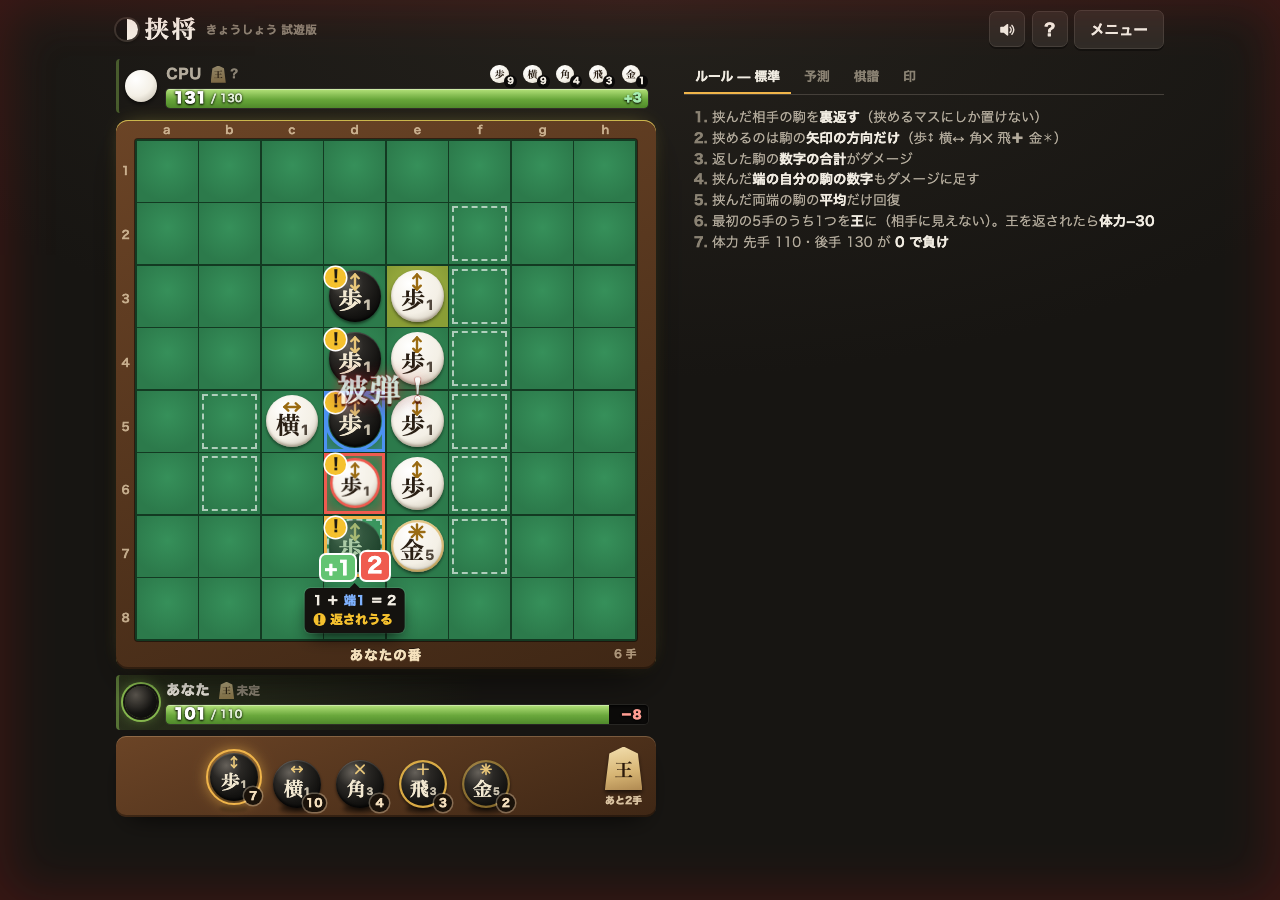
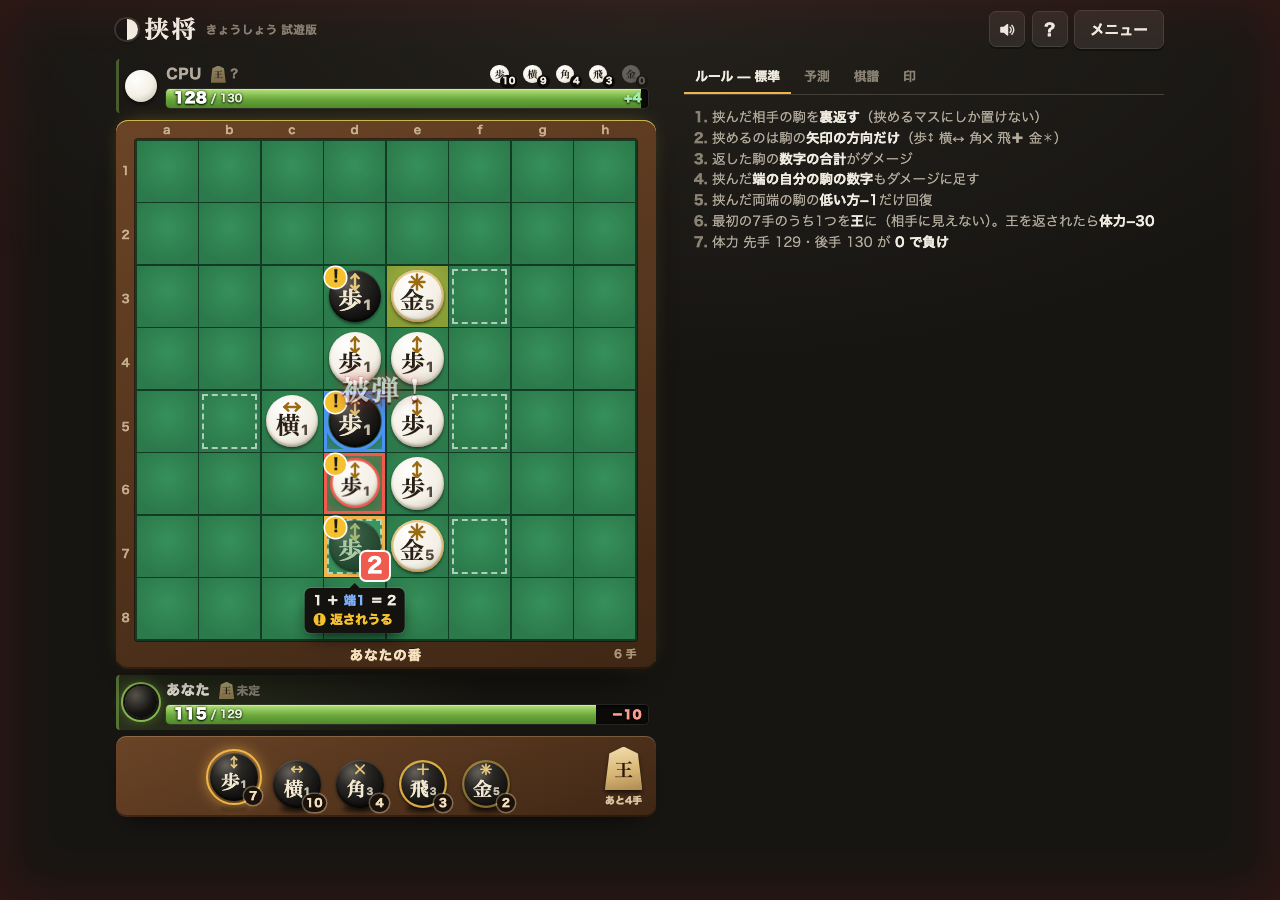
[改善] 標準を回復 低い方−1・王の指定期限 7 手・体力 129・130 にする
ユーザーの指定（王の期限 7 手・回復は弱めて残す）。先手の体力は 2 手読み同士で 125〜133 を走査し、8000 局で先手勝率 49.5 ± 1.1% の 129 にした。
旧標準を明記した URL・保存設定は旧の値のまま読む。

diff --git a/web/test/settings.test.ts b/web/test/settings.test.ts
@@ -80,16 +80,28 @@ describe("URL クエリ", () => {
 });
 
 describe("既定（標準）と共有済みの URL の互換", () => {
-  // ユーザーが既定に指定した URL のクエリ（先手の体力は 125 から 110 に下げた）
+  // 今の標準の URL のクエリ（ユーザーが既定に指定した URL から、回復を低い方−1・王の期限を 7 手に変え、先手の体力を測り直した）
   const STD_QUERY =
+    "take=flip&gate=0&dmg=sum&heal=low&hp1=129&hp2=130&fu=10&gin=0&kin=2&hi=3&limit=0&king=1&kpen=hp&kdmg=30&kdue=7&dir=piece&yoko=10&kaku=4&vkin=5&vhi=3&anc=atk";
+  // 回復・王の期限を変える前の標準の URL（回復は平均・体力 110・130・期限 5 手）
+  const OLD_STD_QUERY =
     "take=flip&gate=0&dmg=sum&heal=avg&hp1=110&hp2=130&fu=10&gin=0&kin=2&hi=3&limit=0&king=1&kpen=hp&kdmg=30&kdue=5&dir=piece&yoko=10&kaku=4&vkin=5&vhi=3&anc=atk";
-  it("指定の URL を読むと、丸めも不正もなく既定の設定と同じ。既定を書き出すと指定の URL と同じ", () => {
+  const oldStd = () => {
+    const r = defaultRules();
+    return { ...r, heal: "avg" as const, hp: [110, 130] as [number, number], king: { ...r.king, deadline: 5 } };
+  };
+  it("今の標準の URL を読むと、丸めも不正もなく既定の設定と同じ。既定を書き出すと同じ URL", () => {
     expect(decodeRules(`?${STD_QUERY}`)).toEqual({ rules: defaultRules(), present: true, invalid: [] });
     expect(encodeRules(defaultRules())).toBe(STD_QUERY);
   });
+  it("回復・王の期限を変える前に共有した標準の URL は、平均・体力 110・130・期限 5 手のまま読める（標準とは別の設定）", () => {
+    const d = decodeRules(`?${OLD_STD_QUERY}`);
+    expect(d).toEqual({ rules: oldStd(), present: true, invalid: [] });
+    expect(matchPreset(d.rules)).toBeNull();
+  });
   it("先手の体力を 110 に下げる前に共有した標準の URL（hp1=125）は、体力 125・130 のまま読める", () => {
-    const before = STD_QUERY.replace("hp1=110", "hp1=125");
-    expect(decodeRules(`?${before}`)).toEqual({ rules: { ...defaultRules(), hp: [125, 130] }, present: true, invalid: [] });
+    const before = OLD_STD_QUERY.replace("hp1=110", "hp1=125");
+    expect(decodeRules(`?${before}`)).toEqual({ rules: { ...oldStd(), hp: [125, 130] }, present: true, invalid: [] });
   });
   it("既存プリセットの URL は既定を変える前と同じ文字列で、同じ設定に読める", () => {
     for (const [id, q] of Object.entries(compat.urls)) {
@@ -153,9 +165,9 @@ describe("ルールカードの文言", () => {
       "挟めるのは駒の矢印の方向だけ（歩↕ 横↔ 角✕ 飛✚ 金✱）",
       "返した駒の数字の合計がダメージ",
       "挟んだ端の自分の駒の数字もダメージに足す",
-      "挟んだ両端の駒の平均だけ回復",
-      "最初の5手のうち1つを王に（相手に見えない）。王を返されたら体力−30",
-      "体力 先手 110・後手 130 が 0 で負け",
+      "挟んだ両端の駒の低い方−1だけ回復",
+      "最初の7手のうち1つを王に（相手に見えない）。王を返されたら体力−30",
+      "体力 先手 129・後手 130 が 0 で負け",
     ]);
   });
   it("取る＋強さ制限は「取れない」", () => {
@@ -242,6 +254,13 @@ describe("設定メニューの保存（localStorage）", () => {
     // ルールは読めて手番だけ壊れている
     const v10 = presetById("v10").rules;
     expect(loadSaved(memory({ [SETTINGS_KEY]: JSON.stringify({ rules: encodeRules(v10), side: 1, host: null }) }))).toEqual({ ...defaultSaved(), rules: v10 });
+  });
+  it("標準を変える前に保存した設定は、保存した値のまま読む（新しい標準に置き換えない）", () => {
+    // 回復・王の期限を変える前の標準（回復は平均・体力 110・130・期限 5 手）を保存していた場合
+    const old = "take=flip&gate=0&dmg=sum&heal=avg&hp1=110&hp2=130&fu=10&gin=0&kin=2&hi=3&limit=0&king=1&kpen=hp&kdmg=30&kdue=5&dir=piece&yoko=10&kaku=4&vkin=5&vhi=3&anc=atk";
+    const saved = loadSaved(memory({ [SETTINGS_KEY]: JSON.stringify({ rules: old, side: "0", host: "random" }) }));
+    expect([saved.rules.heal, saved.rules.hp, saved.rules.king.deadline]).toEqual(["avg", [110, 130], 5]);
+    expect(matchPreset(saved.rules)).toBeNull();
   });
   it("ストレージが例外を投げても標準（safeStore 越し）", async () => {
     const { safeStore } = await import("../src/net/online");

diff --git a/web/e2e/play.spec.ts b/web/e2e/play.spec.ts
@@ -10,9 +10,9 @@ import { ruleLines, sentenceText } from "../src/ui/ruletext";
 import { noHorizontalScroll, openRuleFields, openSettings, openTab, readSetup, rng, saveSettings, seedPage, startGame, waitHumanTurnOrEnd } from "./helpers";
 
 const SHOT = "screenshots";
-/** ユーザーが既定に指定した URL のクエリ（プリセット「標準」。先手の体力は 125 から 110 に下げた） */
+/** プリセット「標準」の URL のクエリ（ユーザーが既定に指定した URL から、回復を低い方−1・王の期限を 7 手に変え、先手の体力を測り直した） */
 const STD_QUERY =
-  "take=flip&gate=0&dmg=sum&heal=avg&hp1=110&hp2=130&fu=10&gin=0&kin=2&hi=3&limit=0&king=1&kpen=hp&kdmg=30&kdue=5&dir=piece&yoko=10&kaku=4&vkin=5&vhi=3&anc=atk";
+  "take=flip&gate=0&dmg=sum&heal=low&hp1=129&hp2=130&fu=10&gin=0&kin=2&hi=3&limit=0&king=1&kpen=hp&kdmg=30&kdue=7&dir=piece&yoko=10&kaku=4&vkin=5&vhi=3&anc=atk";
 
 /** 盤の 64 マスがすべて同じ大きさ（中身の印やバッジで行の高さが変わらない） */
 async function cellsUniform(page: Page) {
@@ -231,8 +231,8 @@ test.describe("PC 幅", () => {
     await startGame(page);
     await ruleCardIs(page, std);
     await expect(page.locator("#rules4-name")).toHaveText("ルール — 標準");
-    await expect(page.locator("#player-0 .hp-num")).toHaveText("110");
-    await expect(page.locator("#player-0 .hp-max")).toHaveText("/ 110");
+    await expect(page.locator("#player-0 .hp-num")).toHaveText("129");
+    await expect(page.locator("#player-0 .hp-max")).toHaveText("/ 129");
     await expect(page.locator("#player-1 .hp-num")).toHaveText("130");
     await expect(page.locator("#player-1 .hp-max")).toHaveText("/ 130");
     await expect(page.locator("#ply")).toHaveText("0 手");
@@ -245,7 +245,8 @@ test.describe("PC 幅", () => {
     await page.locator("#btn-rules").click();
     await expect(page.locator("#rules-title")).toHaveText("ルール — 標準");
     await expect(page.locator("#rules")).toContainText("王を返されたら通常のダメージに加えて体力 −30");
-    await expect(page.locator("#rules")).toContainText("回復 = 挟んだ両端（置いた駒と反対端の自分の駒）の数字の平均（切り捨て）");
+    await expect(page.locator("#rules")).toContainText("回復 = 挟んだ両端（置いた駒と反対端の自分の駒）の低い方 − 1（0 未満は 0）");
+    await expect(page.locator("#rules")).toContainText("7 手目までに選ばなかったら、7 手目に置いた駒が自動で王になる");
     await expect(page.locator("#rules")).toContainText("端の駒の力:");
     await page.screenshot({ path: `${SHOT}/pc-default-rules.png` });
     expect(errors).toEqual([]);

diff --git a/web/src/engine/rules.ts b/web/src/engine/rules.ts
@@ -200,17 +200,18 @@ export const PRESETS: readonly Preset[] = [
   {
     id: "std",
     name: "標準",
-    note: "方向駒＋端の駒の力＋隠し王（返されたら−30）・回復は両端の平均",
+    note: "方向駒＋端の駒の力＋隠し王（最初の7手・返されたら−30）・回復は両端の低い方−1",
     rules: {
       // ユーザーが遊び比べて既定に選んだ組み合わせ（URL: take=flip&gate=0&dmg=sum&heal=avg&hp1=125&hp2=130&fu=10&gin=0&kin=2&hi=3
-      // &limit=0&king=1&kpen=hp&kdmg=30&kdue=5&dir=piece&yoko=10&kaku=4&vkin=5&vhi=3&anc=atk）。
-      // 先手の体力だけ 125 → 110 に下げた（2 手読み同士の先手勝率 125: 約 64% → 110: 49.5 ± 1.1%、8000 局）
-      action: "flip", gate: false, dirs: "piece", damage: "sum", anchor: "attack", heal: "avg",
-      hp: [110, 130],
+      // &limit=0&king=1&kpen=hp&kdmg=30&kdue=5&dir=piece&yoko=10&kaku=4&vkin=5&vhi=3&anc=atk）から、
+      // 王の指定期限を 5 → 7 手、回復を平均 → 低い方−1 に変え（ユーザーの指定）、先手の体力を測り直した
+      // （2 手読み同士の先手勝率 129・130: 49.5 ± 1.1%、8000 局。先手 128: 48.4%・先手 130: 50.6%）
+      action: "flip", gate: false, dirs: "piece", damage: "sum", anchor: "attack", heal: "lowMinus1",
+      hp: [129, 130],
       hand: { fu: 10, yoko: 10, gin: 0, kaku: 4, kin: 2, hi: 3 },
       values: { ...DEFAULT_VALUES, hi: 3, kin: 5 },
       maxPlies: 0,
-      king: { on: true, penalty: "hp", amount: 30, deadline: 5 },
+      king: { on: true, penalty: "hp", amount: 30, deadline: 7 },
     },
   },
 ];

diff --git a/web/e2e/menu.spec.ts b/web/e2e/menu.spec.ts
@@ -52,13 +52,14 @@ test("開くとメニュー。CPU対戦 → 強さを選ぶと、設定画面を
 });
 
 test("強さごとに CPU の手が違う（種付き乱数で、エンジンの chooseMove と同じ手を打つ）", async ({ browser }) => {
-  // 種 7 では、標準の初手がイージー 歩・ノーマル 金・ハード 飛 と分かれる（人間が後手で CPU が先に打つ）
-  const seed = 7;
+  // 種 8 では、標準の初手がイージー 金・ノーマル 金・ハード 横 と分かれる（人間が後手で CPU が先に打つ）。
+  // 回復が低い方−1 だと初手はどの手もダメージ 2・回復 0 の同点で、イージーとノーマルは同じ手になる
+  const seed = 8;
   const expected = (["easy", "normal", "hard"] as CpuLevel[]).map((level) => ({
     level,
     move: chooseMove(viewFor(createGame(defaultRules()), 0), level, rng(seed))!,
   }));
-  expect(new Set(expected.map((e) => e.move.kind)).size).toBe(3);
+  expect(new Set(expected.map((e) => e.move.kind)).size).toBeGreaterThanOrEqual(2);
   for (const { level, move } of expected) {
     const page = await browser.newPage();
     await seedPage(page, seed);

diff --git a/web/test/level.test.ts b/web/test/level.test.ts
@@ -71,7 +71,7 @@ describe("CPU の強さ", () => {
   });
 
   it("対戦させると ハード > ノーマル > イージー（標準・30 局ずつ、先手・後手を入れ替え）", () => {
-    // npm run balance -- vs 400 std の結果: ノーマル対イージー 87.5%、ハード対ノーマル 67.0%
+    // npm run balance -- vs 400 std の結果: ノーマル対イージー 85.8%、ハード対ノーマル 72.0%（この 30 局は 27 勝・22 勝）
     expect(wins("std", "normal", "easy", 30)).toBeGreaterThanOrEqual(22);
     expect(wins("std", "hard", "normal", 30)).toBeGreaterThanOrEqual(18);
   });

diff --git a/.agent/activeContext.md b/.agent/activeContext.md
@@ -4,9 +4,9 @@
 
 ## 現在の対象
 
-- 何を / どこを: 画面の流れを「メニュー → 対局」に作り直し、CPU の強さを 3 段階にする（依頼元セッション経由のユーザー要望「メニューで CPU対戦かマルチ」「設定画面を出さず標準で」「設定は別メニュー」「CPU はイージー・ノーマル・ハード」）。ブランチ `feat/menu-cpu-level`
-- ステータス: PR #20 でマージ・本番デプロイ済み（2026-10-08。本番でメニュー → CPU対戦（イージー）で標準が始まること・マルチにオンラインの入口が出ることをヘッドレスで確認）
-- 王の指定期限 7 手（標準）は依頼元の方針変更でこの PR から外した（revert 済み。2 手読み同士の先手勝率が 49.5% → 30.4% に下がるため、体力・回復の再調整と合わせて別ワーカーが担当）
+- 何を / どこを: プリセット「標準」を 回復 低い方−1・王の指定期限 7 手・体力 129・130 に変える（ユーザー要望「王将を置けるターン数はデフォルト 7」「回復は弱めて残す」。依頼元セッション経由）。ブランチ `feat/std-heal-king7`
+- ステータス: 実装・測定済み、PR → マージ → 本番デプロイの確認中
+- 並行: 1 手ごとの制限時間を別ワーカーが実装中（web/src/ui/・server/・protocol.ts）
 - 最終更新: 2026-10-08
 
 ## メニューと CPU の強さの要点
@@ -29,7 +29,7 @@
 
 ## 直近の観点・指摘
 
-- 既定ルール: 既定は `rules.ts` の `DEFAULT_PRESET`（= `std`、標準: 方向駒＋端の駒の力＋隠し王−30＋回復は平均、体力 110・130、歩10 横10 角4 飛3 金2）。URL のクエリは `QUERY_BASE`（v1.0）からの差分で、欠けた項目・不正な項目も v1.0 の値（変えない）。ルールのキーがないときだけ既定。互換は `web/test/fixtures/query-compat.json`（変更前の main の出力）で検査。2 手読み同士の先手勝率は 49.5 ± 1.1%（8000 局。先手 125 のときは約 64% だったので 110 に下げた）
+- 既定ルール: 既定は `rules.ts` の `DEFAULT_PRESET`（= `std`、標準: 方向駒＋端の駒の力＋隠し王（期限 7 手・−30）＋回復は低い方−1、体力 129・130、歩10 横10 角4 飛3 金2）。URL のクエリは `QUERY_BASE`（v1.0）からの差分で、欠けた項目・不正な項目も v1.0 の値（変えない）。ルールのキーがないときだけ既定。互換は `web/test/fixtures/query-compat.json`（変更前の main の出力）で検査。2 手読み同士の先手勝率は 49.5 ± 1.1%（8000 局。走査表は RULES.md「Web 試遊版」節）。旧標準（平均・110・期限 5）を明記した URL・保存済みの設定（localStorage）は旧の値のままカスタムとして読む
 - CPU 対戦の手番: 設定の `side` は `random` / `0` / `1`（既定は `0` = 先手。手番は URL・保存設定に載らない）。`random` は `PlaySettings.randomSeat` で、`App.start` が対局ごとに `drawSeat`（`crypto.getRandomValues`。`Math.random` は CPU と共有なので使わない）で引き直し、トーストで知らせる。e2e は `seat.spec.ts`（crypto を差し替え）
 - オンラインの画面: 通信層は `net/online.ts`（DOM なし・`test/online.test.ts`）、案内のダイアログは `ui/online.ts`、対局は `ui/app.ts`（`settings.mode === "online"`）。手は送るだけで、盤は届いた `view` で描く。王は `App.kingOf`（view の `myKing` / `oppKing`）。トークンは sessionStorage `kyosho:token:<roomId>`（別タブは別人）。入口は `/api/health` が `{"ok":true}` のときだけ。e2e は `npm run e2e:online`（wrangler dev :8790）。画面側の挙動の詳細は `.agent/online-protocol.md`「画面側の挙動」
 - サーバーの不足（直していない）: 終局後も返されなかった相手の王が届かない（終局画面は「？（明かされない）」）・同じ部屋での再戦の申し込みがない（「新しい部屋で再戦」は招待リンクを送り直す）
@@ -53,7 +53,7 @@
 ## 未解決・次の一手
 
 - [ ] ユーザーの試遊で CPU の強さの手応え（イージーで勝てるか・ハードが強すぎないか）とメニューの流れの感想を聞く。スマホ 2 台でオンラインの作成 → 参加も実機で確かめる
-- [ ] 標準の王の指定期限 7 手（別ワーカー。体力・回復の再調整と合わせて）
+- [ ] ユーザーの試遊で 期限 7 手・回復 低い方−1 の標準の手応えを聞く（CPU の強さの差: ハード対ノーマル 72.0%・ノーマル対イージー 85.8%）
 - [ ] 本番 https://kyosho.rukiharukichi.com/ でメニューの「マルチ」に「オンライン（招待リンク）」が出ること、スマホ 2 台で作成 → 参加 → 終局・再読み込みを確かめる。確かめたら別タスクで GitHub Pages（`pages.yml`）を止める
 - [ ] 必要ならサーバーに「終局後の相手の王の公開」「同じ部屋での再戦」を足す（ユーザーの判断）
 - [ ] ユーザーの試遊で演出の手応え・方向駒・隠し王・拠点・オセロの枠の見やすさの感想を聞く。RULES.md 本文を標準で新版に改稿するかはユーザー判断

diff --git a/RULES.md b/RULES.md
@@ -116,13 +116,27 @@ v0.4 までの本文・検証結果・不採用案は [docs/RULES-v0.4.md](docs/
 | 隠し王 | 裏返す／制限なし／合計／なし／体力 70・60／歩14 銀10 金6 飛2／上限なし／隠し王あり（罰 −20・期限 5 手） | なし（ユニットテストと `npm run balance`） |
 | 方向駒 | 裏返す／制限なし／**駒ごと**／合計／なし／体力 60・65／歩1×8 横1×8 角3×6 飛3×6 金5×4／上限なし／隠し王あり（罰 −20・期限 5 手） | なし（ユニットテストと `npm run balance -- 400 dir`） |
 | 拠点 | 方向駒と同じ ＋ **端の駒の力: 攻撃に上乗せ**／体力 125・130 | なし（ユニットテストと `npm run balance -- 4000 anchor`） |
-| **標準（既定）** | 裏返す／制限なし／**駒ごと**／合計／**端の駒の力: 攻撃に上乗せ**／**平均**／体力 **110**・130／歩1×10 横1×10 角3×4 飛3×3 金5×2／上限なし／隠し王あり（罰 **−30**・期限 5 手） | なし（ユニットテストと `npm run balance -- 400 std`） |
+| **標準（既定）** | 裏返す／制限なし／**駒ごと**／合計／**端の駒の力: 攻撃に上乗せ**／**低い方−1**／体力 **129**・130／歩1×10 横1×10 角3×4 飛3×3 金5×2／上限なし／隠し王あり（罰 **−30**・期限 **7 手**） | なし（ユニットテストと `npm run balance -- 400 std`） |
 
 方向駒・拠点・標準以外のプリセットは 全方向・既定の数字（歩1 銀2 金3 飛5）・横と角 0 個。拠点・標準以外は端の駒の力なし。
 
-クエリなしで開いたときの既定は「標準」（ユーザーが遊び比べて選んだ組み合わせから先手の体力だけ下げたもの。URL は `?take=flip&gate=0&dmg=sum&heal=avg&hp1=110&hp2=130&fu=10&gin=0&kin=2&hi=3&limit=0&king=1&kpen=hp&kdmg=30&kdue=5&dir=piece&yoko=10&kaku=4&vkin=5&vhi=3&anc=atk`）。
-先手の体力は、ユーザーが選んだ 125 では 2 手読み同士の先手勝率が約 64%（4000 局 ×2 で 63.9 ± 1.5% / 65.1 ± 1.5%、平均 43.9 手、打てる手なしで終局 11.5%）と先手有利だったので、110 に下げた。
-110・130 は 8000 局で先手勝率 49.5 ± 1.1%（95% 信頼区間）・平均 41.8 手・打てる手なしで終局 6.6%。体力 125 を明記した共有済みの URL（`hp1=125`）は引き続き 125 として読む。
+クエリなしで開いたときの既定は「標準」（ユーザーが遊び比べて選んだ組み合わせから、王の指定期限・回復を変えて先手の体力を測り直したもの。URL は `?take=flip&gate=0&dmg=sum&heal=low&hp1=129&hp2=130&fu=10&gin=0&kin=2&hi=3&limit=0&king=1&kpen=hp&kdmg=30&kdue=7&dir=piece&yoko=10&kaku=4&vkin=5&vhi=3&anc=atk`）。
+
+標準の調整の経緯（どれも 2 手読み同士・`npm run balance -- N std 先手,後手`）:
+
+1. ユーザーが選んだ組み合わせ（回復は平均・期限 5 手・体力 125・130）は先手勝率が約 64%（4000 局 ×2 で 63.9 ± 1.5% / 65.1 ± 1.5%、平均 43.9 手、打てる手なしで終局 11.5%）と先手有利だったので、先手の体力を 110 に下げた（8000 局で 49.5 ± 1.1%・平均 41.8 手）
+2. ユーザーの指定で王の指定期限を 5 → 7 手にし、回復を「平均」から「低い方−1」に弱めた（回復をなくすか迷った末に「弱めて残す」を選んだ）。期限 7 手で体力 110 のままだと先手勝率は 28.3%（2000 局）に落ちる。
+   低い方−1 だと回復は金・飛・角を置いたときだけ起き、1 局あたり約 9 回・受けたダメージの約 8%（8000 局の集計）。後手 130 のまま先手の体力を測り直した:
+
+| 先手の体力 | 125 | 126 | 127 | 128 | 129 | 130 | 131 | 132 | 133 |
+|---|---|---|---|---|---|---|---|---|---|
+| 先手勝率（2000 局） | 45.3% | 46.7% | 47.5% | 49.0% | 50.0% | 51.2% | 52.4% | 53.5% | 54.6% |
+| 平均手数 | 36.8 | 37.0 | 37.1 | 37.3 | 37.5 | 37.6 | 37.8 | 37.9 | 38.0 |
+
+8000 局では 128: 48.4%・**129: 49.5 ± 1.1%**（95% 信頼区間）・130: 50.6% で、50% に最も近い 129 にした（129・130 は平均 37.5 手・打てる手なしで終局 4.0%・王が返された割合 63.5%）。
+CPU の強さの差も保たれている（400 局。ハード対ノーマル 72.0%（期限・回復を変える前は 67.0%）・ノーマル対イージー 85.8%（87.5%））。
+
+値を明記した共有済みの URL はその値のまま読む（`heal=avg&hp1=110&...&kdue=5` は平均・110・130・期限 5 手、`hp1=125` は 125）。ルールのキーがない URL だけが今の標準になる。
 
 URL のクエリは「v1.0（取る）を基準にした差分」として読み書きする（`web/src/ui/query.ts` の `QUERY_BASE`）。方向駒・端の駒の力の項目は基準と違うときだけ載せ、クエリにない項目・不正な項目は基準（v1.0）の値にする。
 既定を「標準」に変えても基準は v1.0 のまま固定しているので、これまでに共有した URL（一部の項目だけの URL も含む）は以前と同じ設定に読める。ルールのキーが 1 つもない URL（クエリなし・`?room=`・計測用のキーだけ）は既定の「標準」になる。

diff --git a/AGENTS.md b/AGENTS.md
@@ -11,7 +11,7 @@
 
 - 目的: ルールを詰め、人間の試遊で面白さを確かめる
 - 対象: 作者と試遊する人（ブラウザ版は起動時のメニューから CPU 対戦（強さ 3 段階）・マルチ（同じ端末での 2 人対戦・招待リンクでのオンライン対戦）。ルールは設定メニューで組み合わせて保存し、変えなければ標準）
-- 状況: v0.4 は「難しい」「普通のオセロと変わらない」、v1.0 は「オセロじゃなくてもよくなって悪化」。読み合いを足すため「隠し王」（相手に見えない王）、戦略性を足すため「方向駒」（駒ごとに挟める方向が違う）、駒を置くリスクとリターンを足すため「端の駒の力」（挟んだ端の自分の駒の数字もダメージに足す。プリセット「拠点」）を設定項目とプリセットに追加した。ユーザーが遊び比べて選んだ組み合わせ（方向駒＋端の駒の力＋隠し王−30＋回復は平均）をプリセット「標準」として既定にした。体力は 110・130（ユーザーが選んだ先手 125 は 2 手読み同士で先手勝率約 64% だったので、先手だけ下げた）（RULES.md 本文の改稿はまだ。ルールの決定はユーザーがする）
+- 状況: v0.4 は「難しい」「普通のオセロと変わらない」、v1.0 は「オセロじゃなくてもよくなって悪化」。読み合いを足すため「隠し王」（相手に見えない王）、戦略性を足すため「方向駒」（駒ごとに挟める方向が違う）、駒を置くリスクとリターンを足すため「端の駒の力」（挟んだ端の自分の駒の数字もダメージに足す。プリセット「拠点」）を設定項目とプリセットに追加した。ユーザーが遊び比べて選んだ組み合わせ（方向駒＋端の駒の力＋隠し王−30）をプリセット「標準」として既定にした。その後ユーザーの指定で王の指定期限を 7 手・回復を低い方−1 にし、体力は 2 手読み同士で先手勝率が 50% に最も近い 129・130 にした（経緯は RULES.md「Web 試遊版」節）（RULES.md 本文の改稿はまだ。ルールの決定はユーザーがする）
 - 手応え: 大ダメージほど段階的に派手な演出・効果音、終局画面の前に勝ち・負け・引き分けの決着の演出、終局画面に成績（ルール上のボーナスではない。`ui/impact.ts` / `ui/outcome.ts` / `ui/fx.ts` / `ui/sound.ts`）
 - 最重要要件: **ルールが一目で分かること**。ルールはいつでも 1 タップで見られる（設定から生成するルールカードは引き出しの「ルール — 名前」のタブ。見出しは常に表示、PC は開いて始め、スマホは閉じて始める）。盤では返せる駒とダメージ・回復の予測（マスのバッジと吹き出し）・返されうる駒の警告・普通のオセロなら置けるマスの点線の枠（参考）・方向駒のアイコン・端の駒の青枠とダメージの内訳で示す
 - 見た目: ボードゲームアプリ風（ユーザーの依頼「AI 感をなくしてゲームらしく」）。説明の文を常に出さず、形と動きで伝える（下の「デザイン規約」）

diff --git a/README.md b/README.md
@@ -40,7 +40,7 @@ npm run dev        # 表示された URL（既定 http://localhost:5173）を開
 | 隠し王（読み合い） | なし／あり。ありなら、王を返されたときの罰（体力−N（1〜200）／即負け）と指定期限（各自の最初の 1〜20 手） |
 
 - プリセット: **v0.4**／**v1.0（取る）**／**v2案（強い駒は返せない）**／**原案**／**隠し王**／**方向駒**／**拠点**／**標準**（既定）。選んだ後に個別に変えられる
-- 標準（既定）: 方向駒＋端の駒の力（攻撃に上乗せ）＋隠し王（返されたら体力−30）、回復は挟んだ両端の平均、体力 110・130（先手有利を直すため先手だけ下げた）、持ち駒は 歩10 横10 角4 飛3 金2。クエリなしで開くとこの設定から始まる
+- 標準（既定）: 方向駒＋端の駒の力（攻撃に上乗せ）＋隠し王（最初の 7 手のうち 1 手・返されたら体力−30）、回復は挟んだ両端の低い方−1、体力 129・130（2 手読み同士で先手勝率が 50% に最も近い値）、持ち駒は 歩10 横10 角4 飛3 金2。クエリなしで開くとこの設定から始まる
 - 方向駒: 駒ごとに挟める方向が違う（歩↕縦・横↔横・角✕斜め・飛✚縦横・金✱全方向。数字は 歩1 横1 角3 飛3 金5）。盤上の駒と持ち駒に方向のアイコンが付き、持ち駒を選び替えるとその駒で返せるマスだけに印が付く。予測と「!」も駒の方向で計算する
 - 拠点（端の駒の力）: 方向駒に「攻撃に上乗せ」を足したもの（体力 125・130）。挟むのに使ったもともと盤上の自分の駒（列の反対端）の数字もダメージに足すので、強い駒は置いた後も何度も攻撃の拠点になり、返されると相手の拠点になる。予測中は上乗せに使う端の駒を青枠と「+数字」で示し、予測と棋譜にダメージの内訳（返した駒 ＋ 端の駒）を出す
 - 隠し王: 自分の最初の数手のうち 1 手で、置く前に駒台の右端の王の駒（「あと N 手」）を押すと、その駒が相手に見えない王になる（期限の手までに決めなければ期限の手の駒が自動で王）。王を返されたら通常のダメージ＋罰で、王は公開されて以後ふつうの駒。CPU 対戦では自分の王に常に「王」の印、2 人対戦では駒台の王の駒（押して確認）を押している間だけ表示。王の場所は名札に王の駒の形とマス名で出る

diff --git a/.agent/progress.md b/.agent/progress.md
@@ -50,3 +50,4 @@
 ## 2026-10-08
 
 - 画面の流れを「メニュー → 対局」に: 起動時のメニュー（CPU対戦 → 強さ／マルチ → 2 人・オンライン／設定）、対局前の設定画面を廃止、設定メニューは保存制（localStorage、読めなければ標準）。CPU の強さ 3 段階（`chooseMove`。標準 400 局でハード対ノーマル 67.0%・ノーマル対イージー 87.5%）。e2e `menu.spec.ts`・ユニット `level.test.ts`
+- 標準を 回復 低い方−1・王の指定期限 7 手・体力 129・130 に（ユーザー指定。先手体力は 125〜133 を 2000 局ずつ走査し、8000 局で 129: 49.5 ± 1.1%）。旧標準の URL・保存設定は旧の値のまま読むテストを追加
